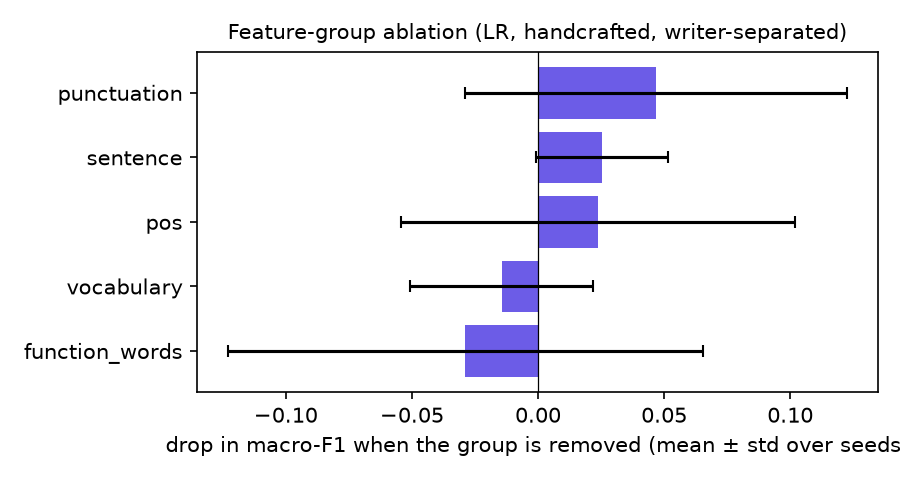
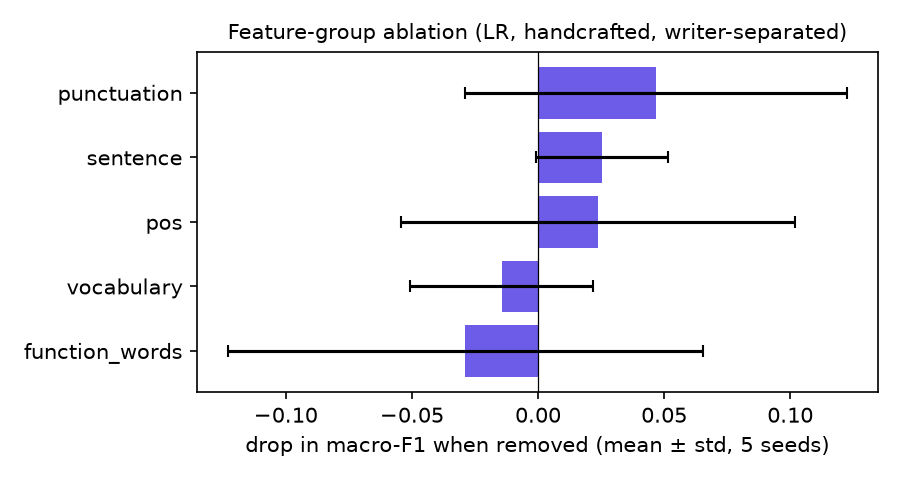
fix ablation plot label

Changed region(s): [[0.1867, 0.9062, 1.0, 0.9688]]

diff --git a/src/stylometry/evaluation/plots.py b/src/stylometry/evaluation/plots.py
@@ -89,7 +89,7 @@ def ablation_plot(abl: pd.DataFrame, path: Path):
     fig, ax = plt.subplots(figsize=(6, 3.2))
     ax.barh(d.group, d.f1_drop_mean, xerr=d.f1_drop_std, color="#6c5ce7", capsize=3)
     ax.axvline(0, c="k", lw=0.6)
-    ax.set_xlabel("drop in macro-F1 when the group is removed (mean ± std over seeds)")
+    ax.set_xlabel("drop in macro-F1 when removed (mean ± std, 5 seeds)")
     ax.set_title("Feature-group ablation (LR, handcrafted, writer-separated)", fontsize=10)
     _save(fig, path)
 
